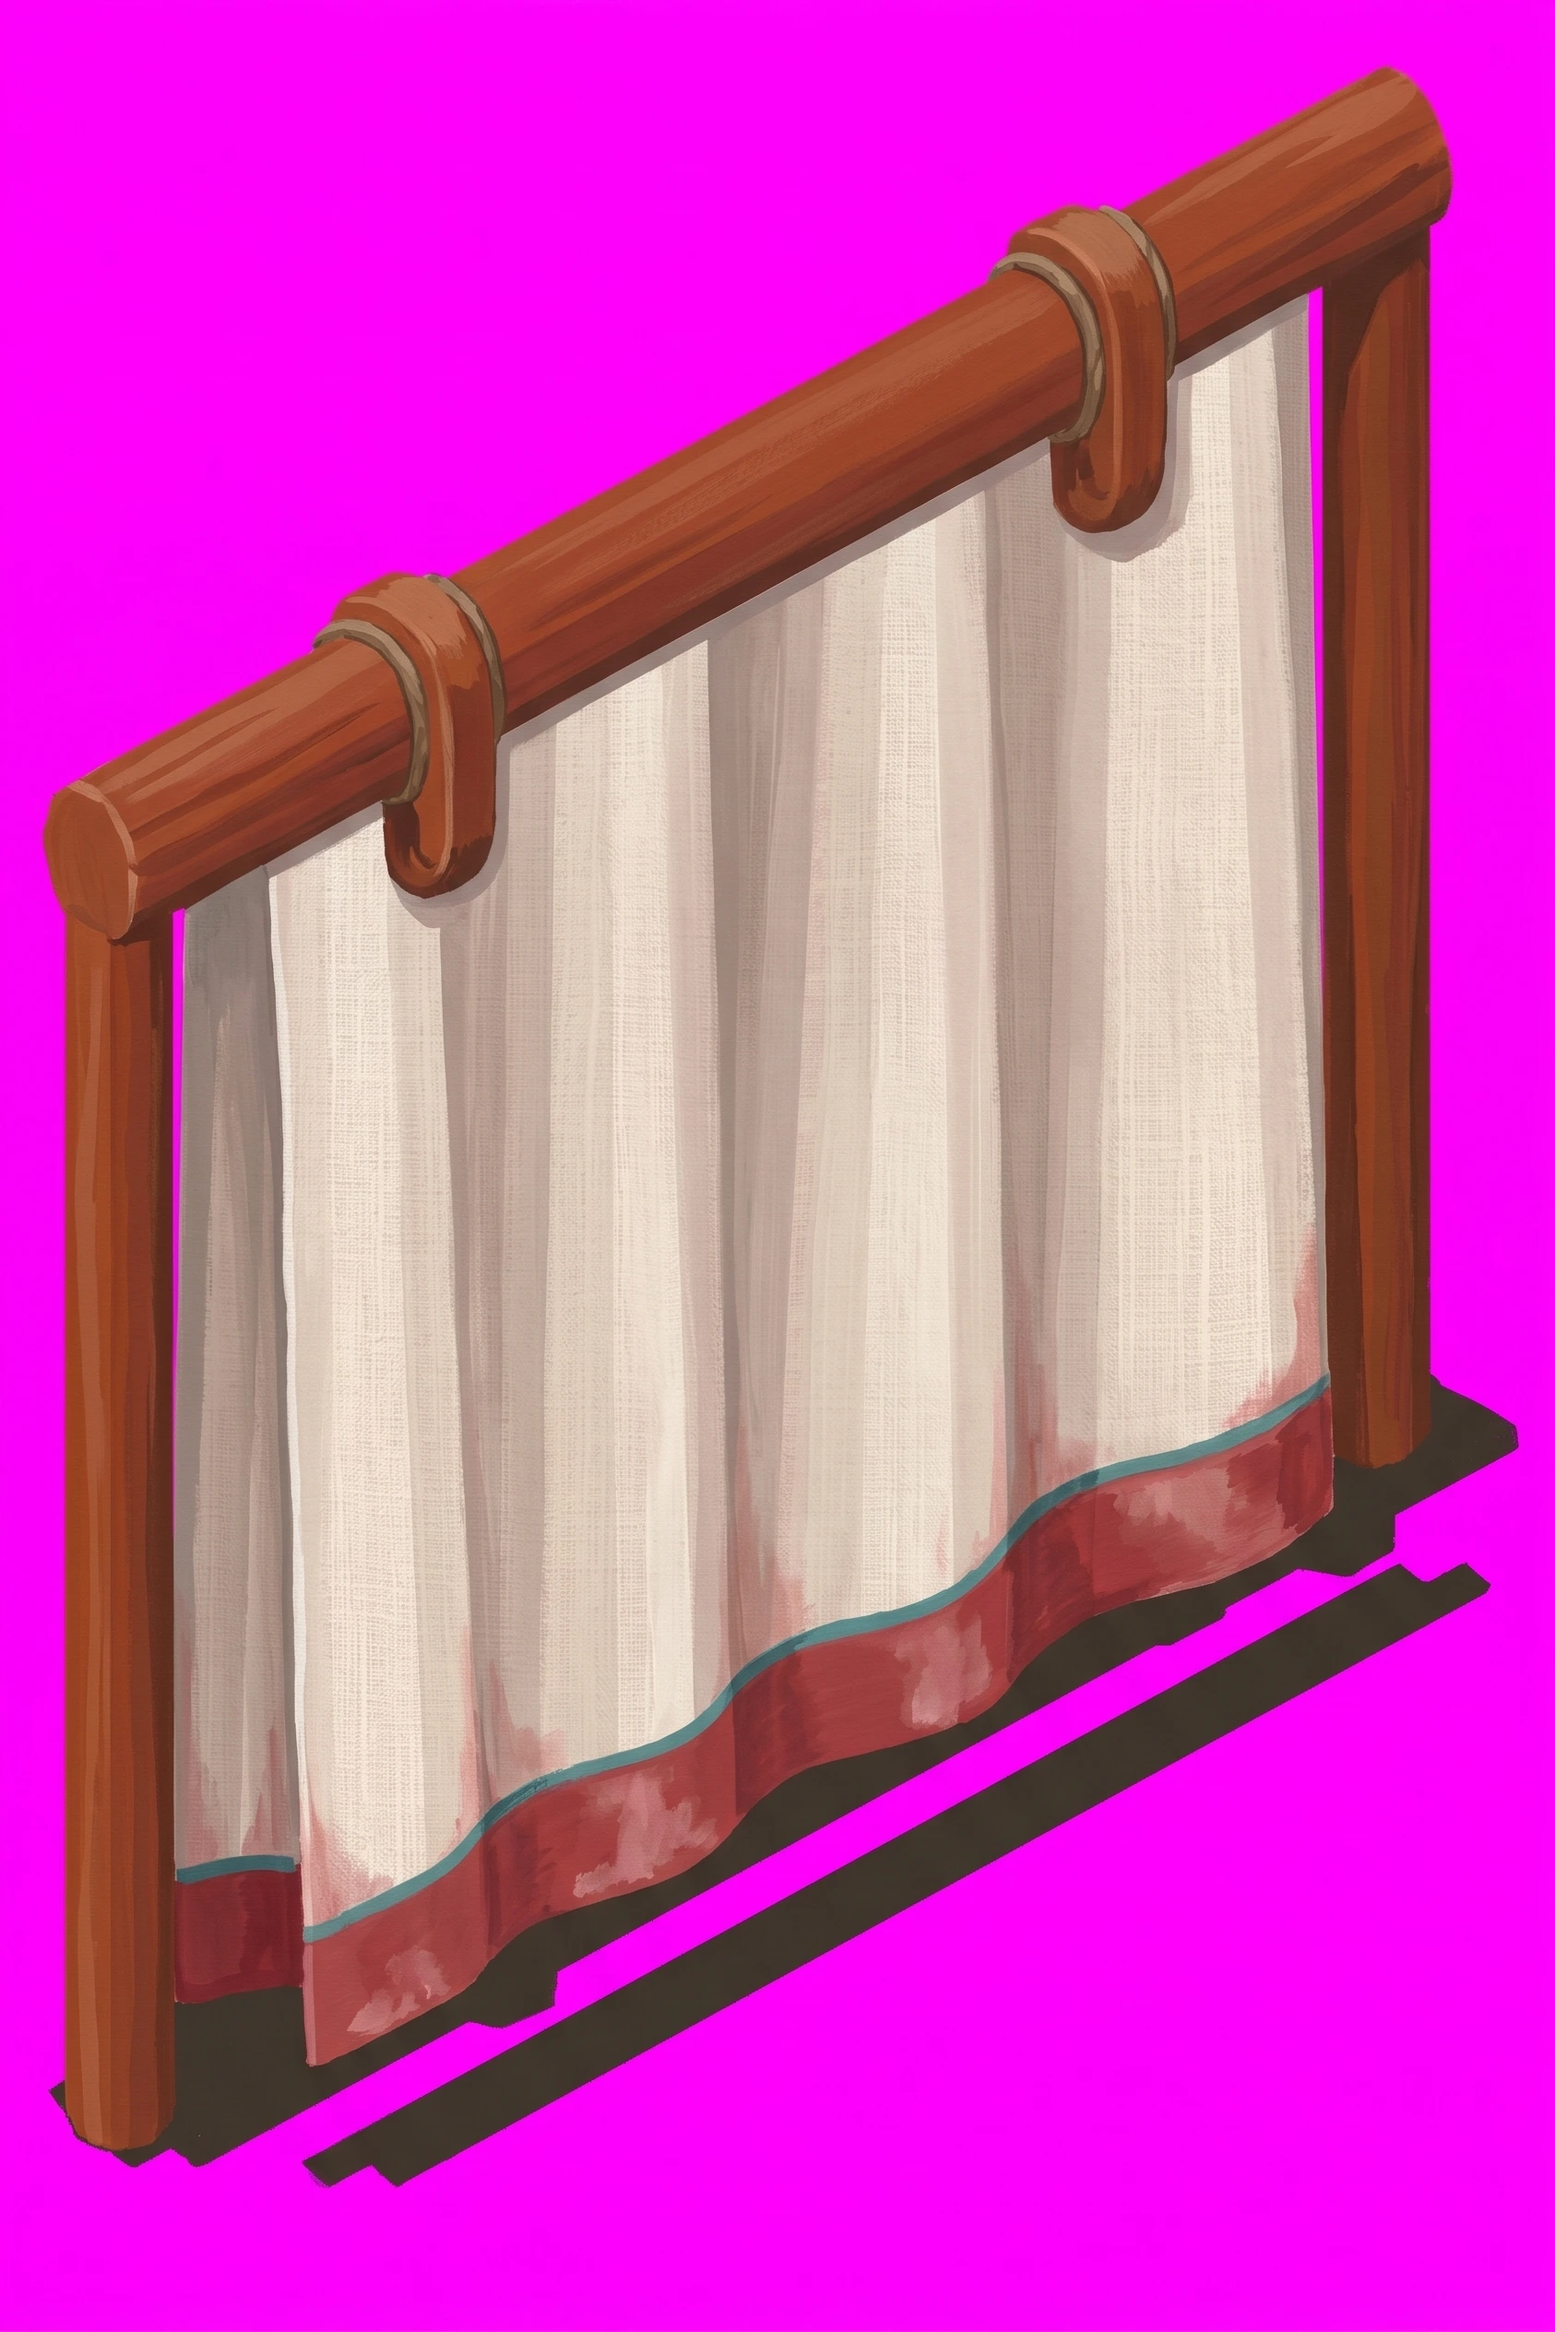
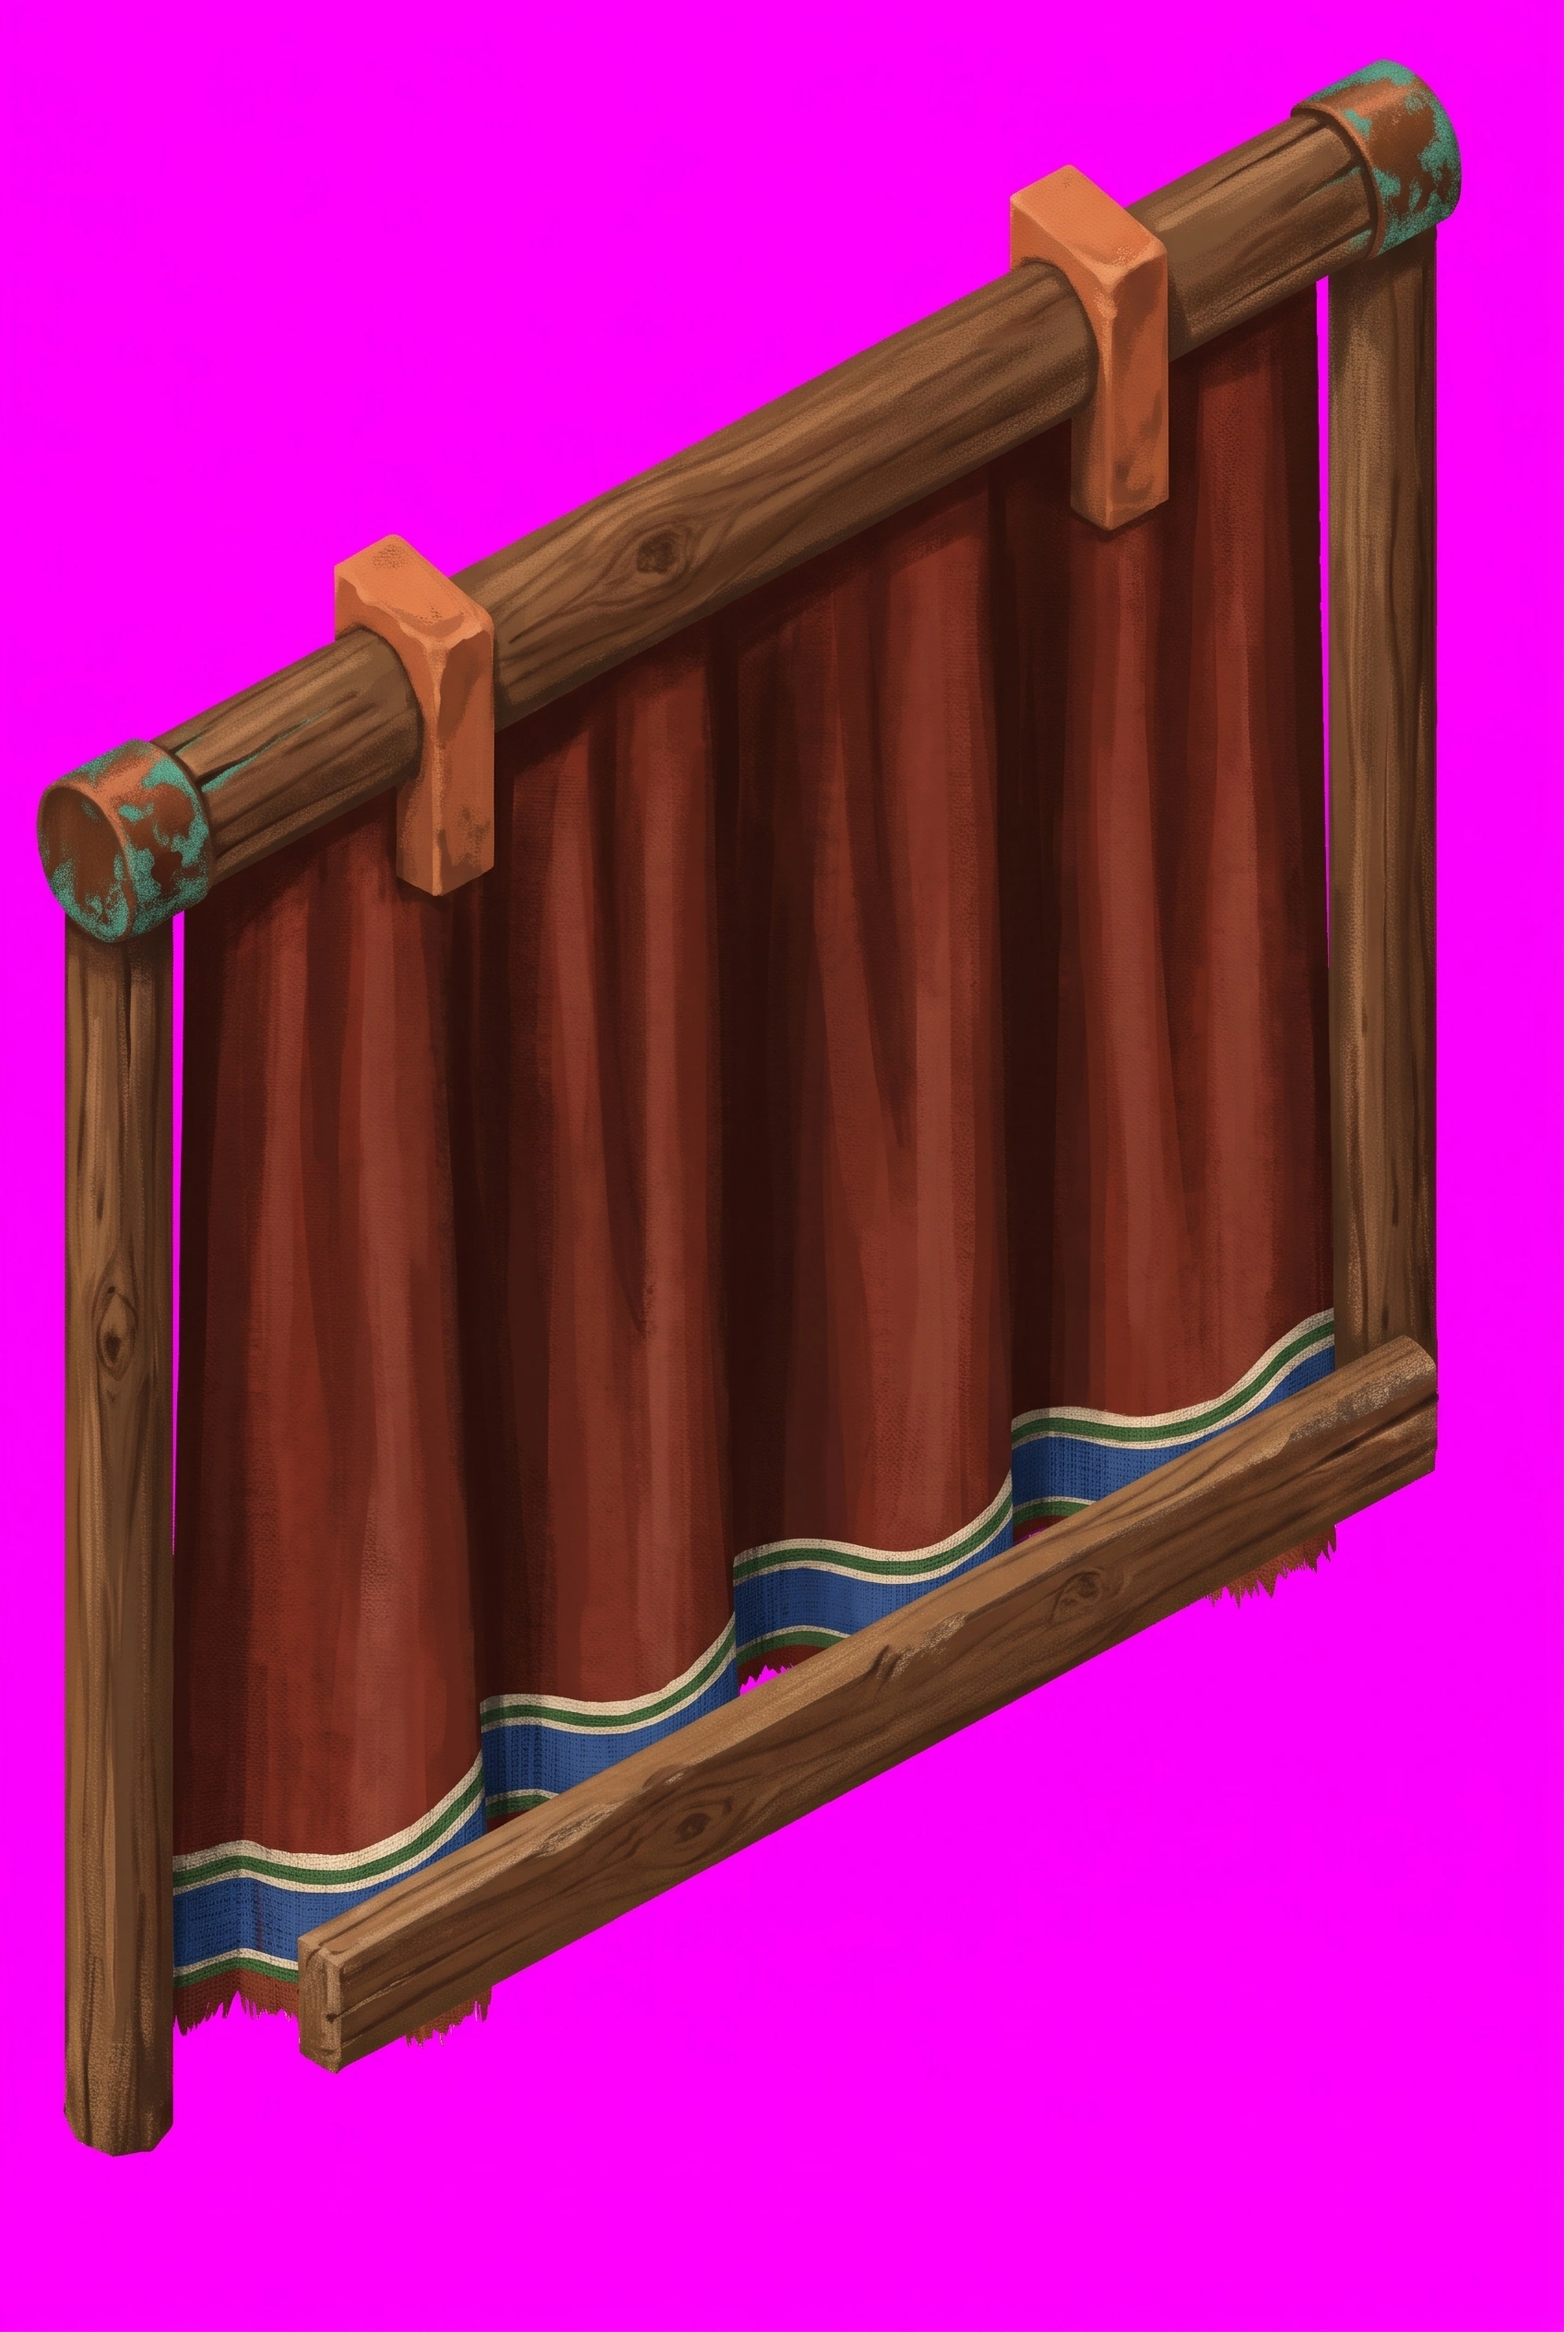
art: junior linen hanging
Claude-Session: https://claude.ai/code/session_01F6g2diRzQCzQwEf9zsEEGH

diff --git a/docs/instructions/repaint-queue.md b/docs/instructions/repaint-queue.md
@@ -483,7 +483,7 @@ Even lighting left to right, no hotspot, no vignette.
 
 ---
 
-## Nobleman — thirty-one
+## Nobleman — thirty
 
 The nobleman's existing props, repainted for the rank's new light orange floor. Each is its own thing
 first: cedar is cedar, linen is linen, pottery is pottery, painted in red ochre, Egyptian blue and leaf
@@ -506,39 +506,6 @@ The last nine are the house's own kinds, new with its activities ([themed-rooms.
 § Junior): each has a primitive of its own in `renderProp.py` and a guarded block in `art/rebuild.sh`. The
 banquet table and the bed are two cells across, so their frame is landscape three by two; the harp and the
 potted tree stand a cell taller, so theirs is portrait two by five.
-
-### `junior/hanging` — a dyed linen hanging with a woven border
-
-**Re-roll:** the rank's palette moved (2026-11-03, `Topology/Palette moodboard`). Repainted against the new light orange floor, in its own material's colours; copper only as a trim.
-
-**Attach:**
-
-1. `~/tile-previews/hanging-junior.png` — the scaffold
-2. `~/tile-previews/junior-plain.png` — the material reference
-
-```
-A wall-less product shot of a single object, painted in flat matte gouache, no background, on pure magenta #FF00FF. Portrait, two units wide by three tall, exactly as the reference. Do not re-compose it into a square. Paint over the reference image itself.
-
-The object: a LINEN HANGING. The two uprights are POSTS; the bar across their tops is the POLE; the cloth
-hanging from it is the LINEN; the marked band along its edge is the BORDER.
-
-The linen is DYED a deep red ochre #8a3a2a, falling in soft even folds, #6a2a20 in the shade of each
-fold. The border is woven in bands of Egyptian blue #2a5a9a and a thin leaf green #3b6b45, with one
-narrow line of undyed linen #d8c8a8, crisp. The posts and pole are oiled cedar #6b4226, with small copper
-caps #8a4022 at the pole's ends gone verdigris #4f9a86.
-
-Keep every edge, every proportion and every silhouette exactly as in the reference image — do not move, resize, straighten, add, remove or restyle any part of it, and do not change the angle it stands at. Paint only material and wear.
-
-No highlights, no gloss, no rim light, no ground plane, no reflections. Matte throughout, evenly lit, crisp and clean. Nobleman's house: orange sandstone, painted plaster, cedar, linen, reed and pottery, each in its OWN colours so it reads at a glance as what it is. Copper is an accent only — a rim, a band, a hasp, gone verdigris green at the edges — never a tint over the whole object.
-```
-
-Then, once the return is in `~/Downloads`:
-
-```sh
-scaffold hanging --contents=linen --spin=38 --colour=#6b4226 --colour-cloth=#8a3a2a --floor=#e2a86f
-yarn import-tile art/masters/props/junior/hanging.webp --tier=junior --name=hanging --slot=prop \
-  --filter=smooth --mask="$OBJ" --seat="$SHADOW"
-```
 
 ### `junior/offeringTable` — a laid table with bread, fruit and lotus
 
